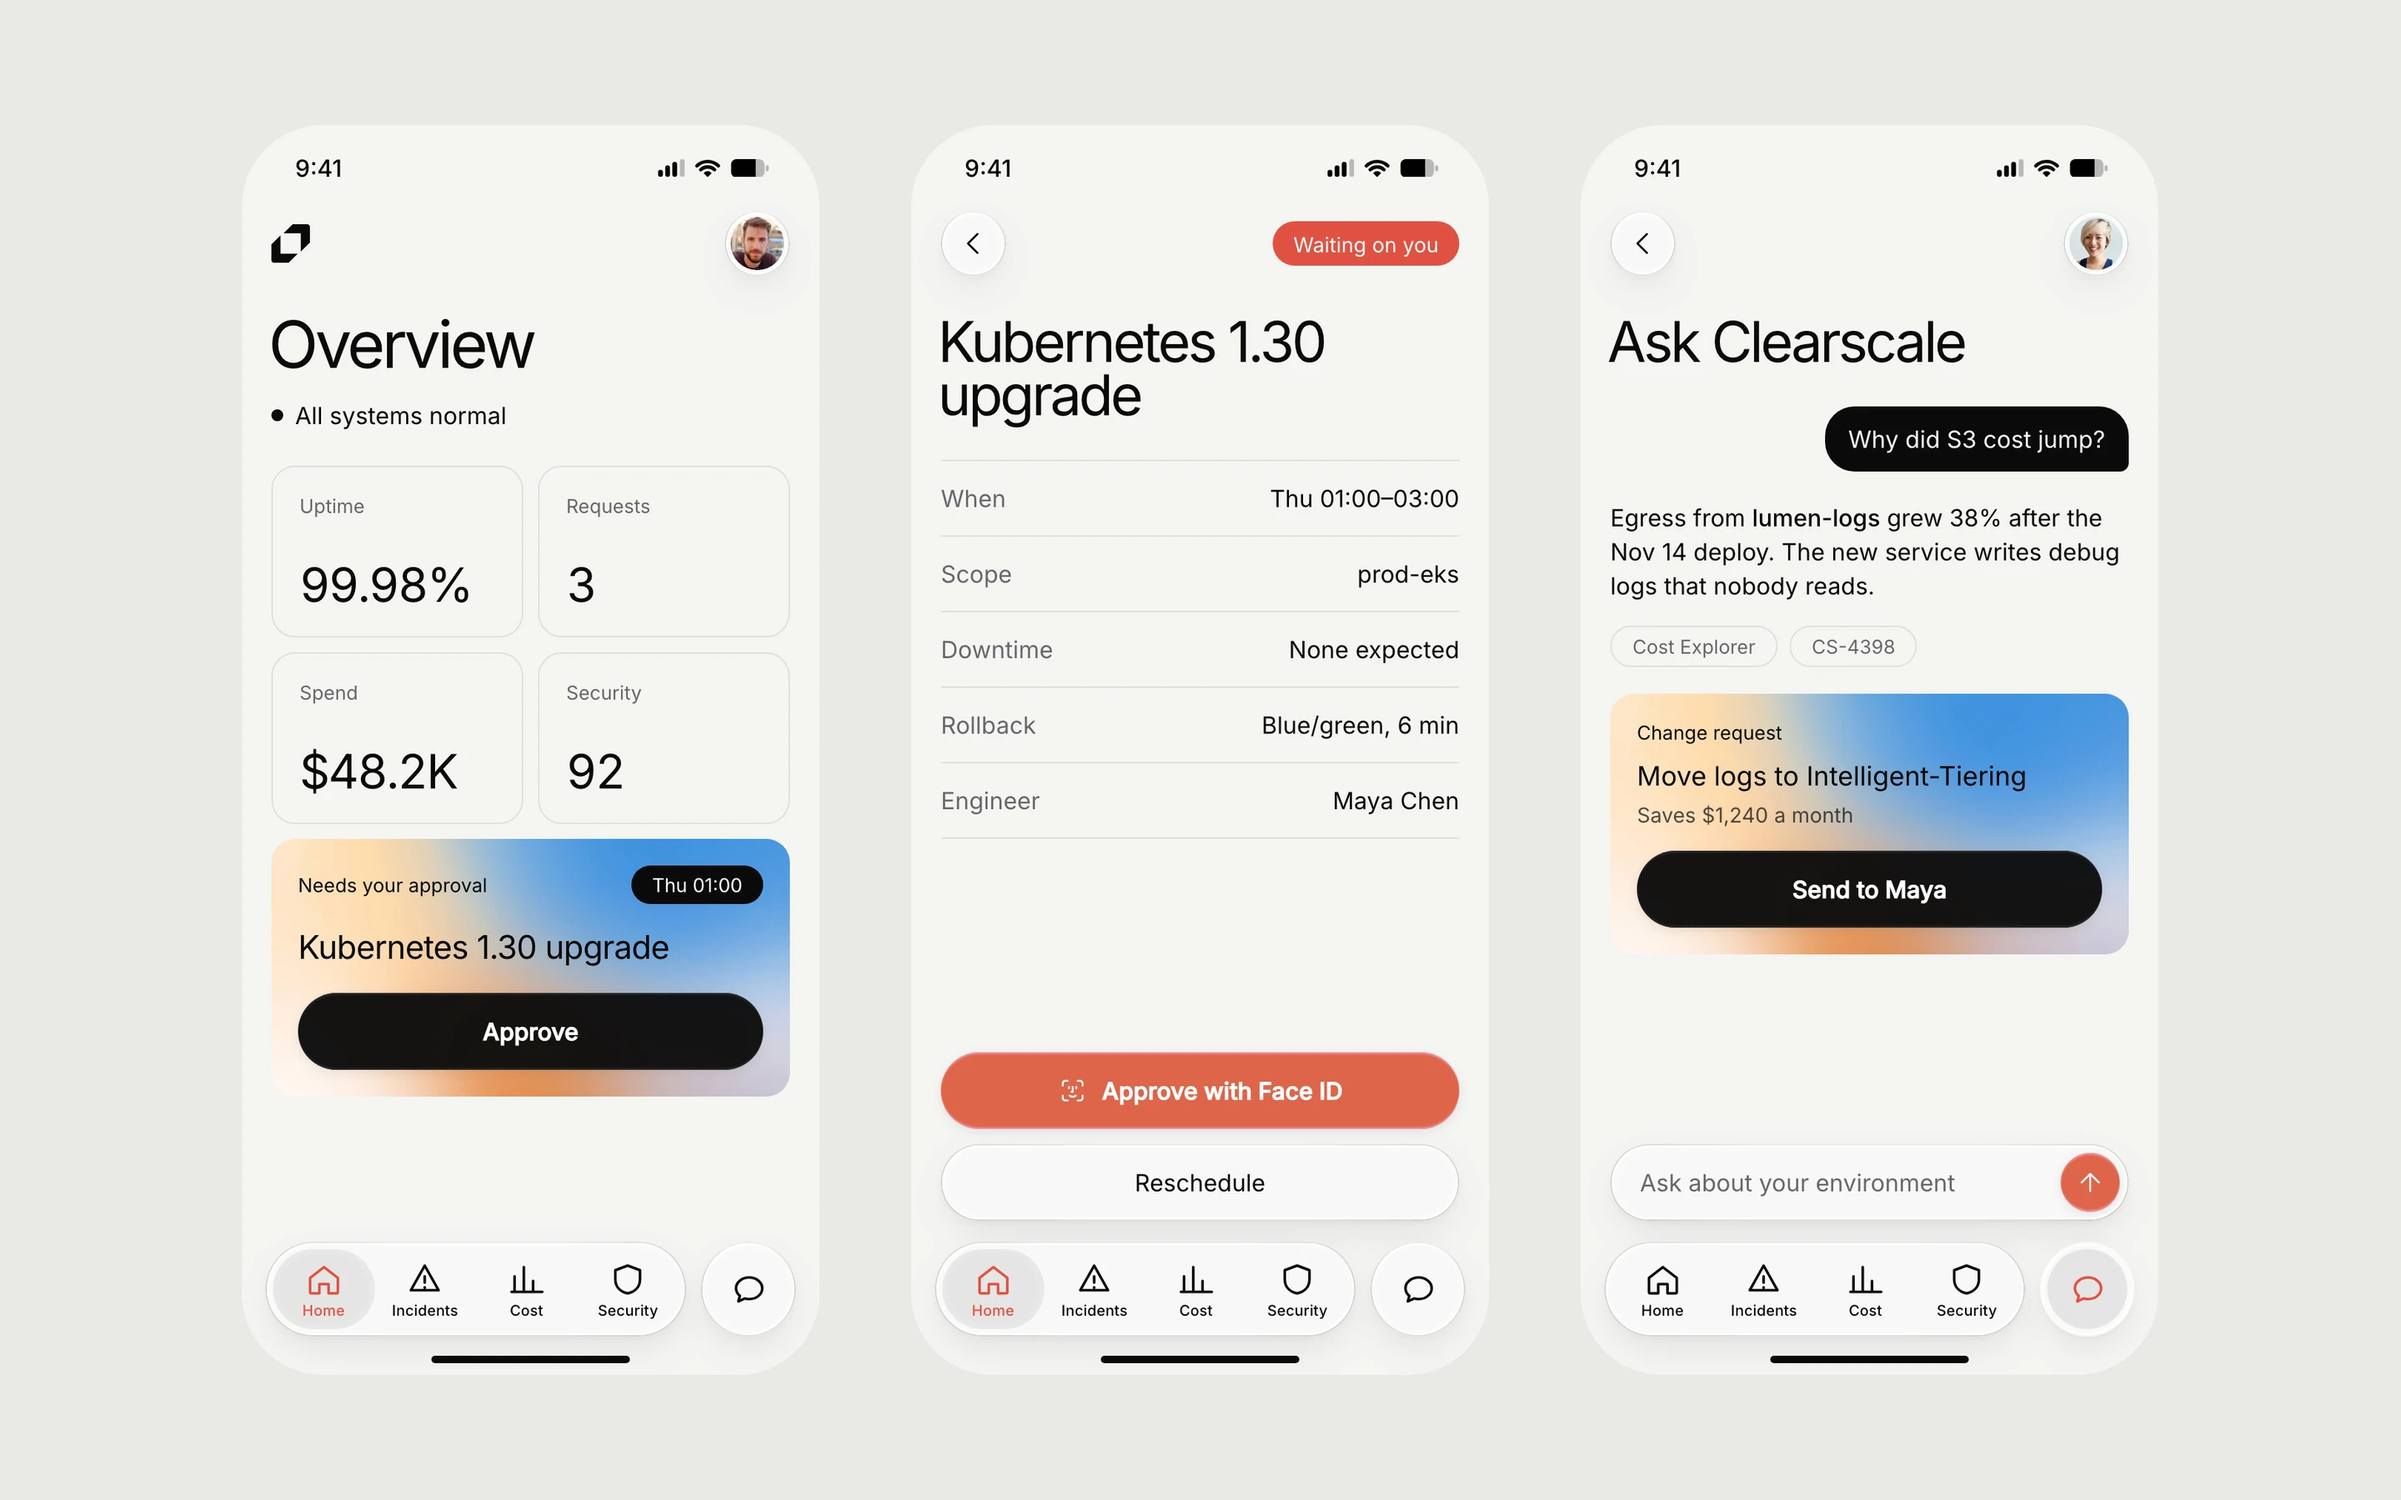
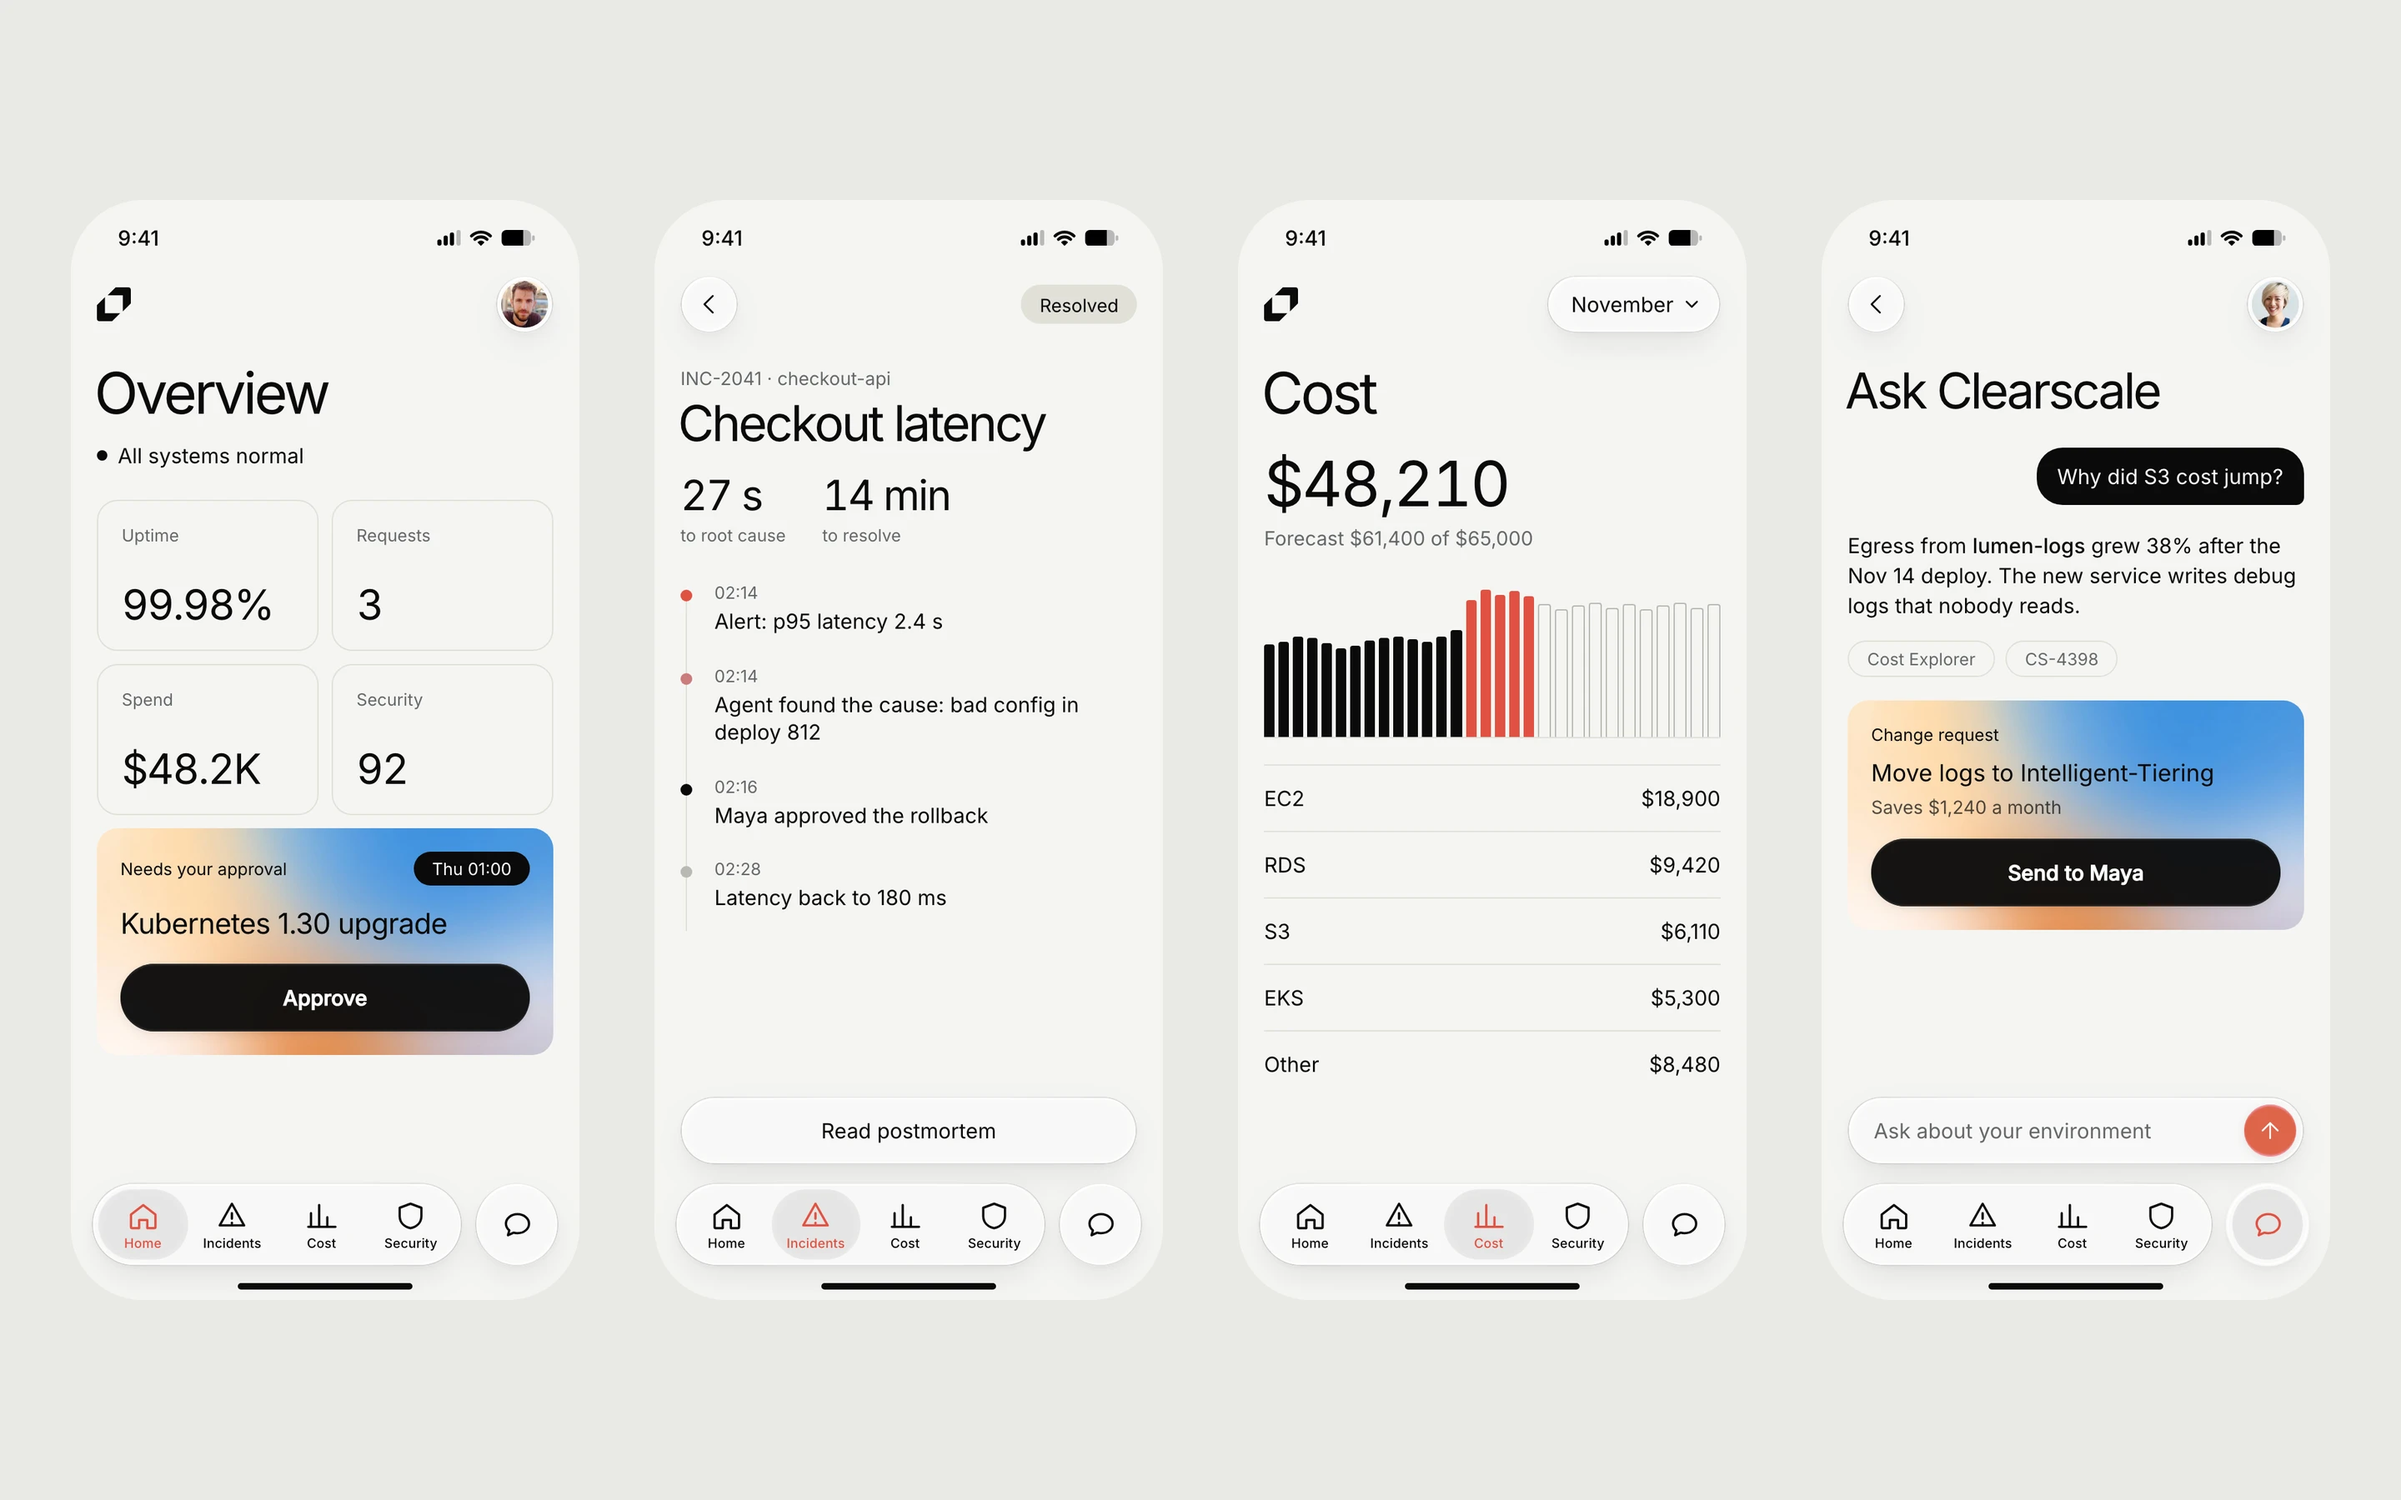
feat(clearscale): user flow on the case image ground, eight phone screens in two rows

diff --git a/src/data/en.ts b/src/data/en.ts
@@ -673,7 +673,17 @@ const caseSections: Record<string, CaseSection[]> = {
     {
       kind: "image",
       src: "/images/clearscale/portal-mobile.webp",
-      alt: "Clearscale iPhone app concept in Liquid Glass: overview with an approval card, a maintenance window approved with Face ID, and a chat that turns a cost question into a change request",
+      alt: "Clearscale iPhone app concept in Liquid Glass: overview with an approval card, an incident timeline, monthly cost, and a chat that turns a cost question into a change request",
+      aspect: "1440 / 900",
+    },
+    {
+      kind: "case",
+      text: "The phone app is for the moments that can't wait until morning: an inbox of everything that needs the client, a window approved with Face ID, a new request with the agent's time estimate, and the security score with the findings that matter.",
+    },
+    {
+      kind: "image",
+      src: "/images/clearscale/portal-mobile-2.webp",
+      alt: "Clearscale iPhone app concept: inbox, a maintenance window approved with Face ID, a new request with an agent estimate, and the security score",
       aspect: "1440 / 900",
     },
     {
